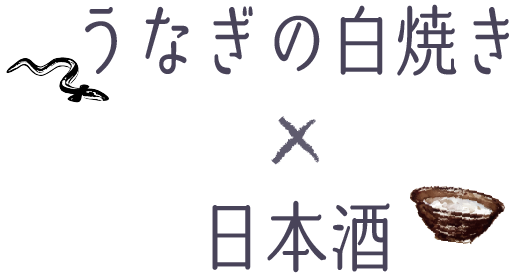
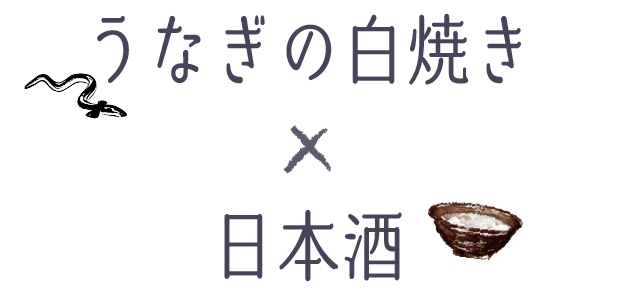
レスポンシブ対応に

diff --git a/sake.css b/sake.css
@@ -123,7 +123,7 @@ section.sake__cranberry {
     display: block;
     justify-content: center;
     margin: auto;
-    width: 360px;
+    width: 400px;
     object-fit: contain; }
   /* line 146, /Users/matsuyasuguru/sake_sue/sake.scss */
   section.sake__cranberry section.sake__cranberry__content {
@@ -248,7 +248,7 @@ section.sake__mirai {
     display: block;
     justify-content: center;
     margin: auto;
-    width: 260px;
+    width: 400px;
     object-fit: contain; }
   /* line 297, /Users/matsuyasuguru/sake_sue/sake.scss */
   section.sake__mirai section.sake__mirai__content {
@@ -308,7 +308,7 @@ section.sake__unagi {
     display: block;
     justify-content: center;
     margin: auto;
-    width: 380px;
+    width: 400px;
     object-fit: contain; }
   /* line 369, /Users/matsuyasuguru/sake_sue/sake.scss */
   section.sake__unagi section.sake__unagi__content {
@@ -333,12 +333,12 @@ section.sake__unagi {
         height: 94px; }
       /* line 392, /Users/matsuyasuguru/sake_sue/sake.scss */
       section.sake__unagi section.sake__unagi__content .sake__unagi__item .text_2 {
-        height: 100px; }
+        height: 108px; }
       /* line 396, /Users/matsuyasuguru/sake_sue/sake.scss */
       section.sake__unagi section.sake__unagi__content .sake__unagi__item .text_3 {
         padding-top: 20px;
         margin-bottom: 80px;
-        height: 48px; }
+        height: 64px; }
   /* line 405, /Users/matsuyasuguru/sake_sue/sake.scss */
   section.sake__unagi .water__1 {
     position: absolute;
@@ -413,27 +413,27 @@ section.sake__unagi {
           height: 70px; }
         /* line 493, /Users/matsuyasuguru/sake_sue/sake.scss */
         section.sake__cranberry section.sake__cranberry__content .sake__cranberry__item .right {
-          float: right; }
-    /* line 499, /Users/matsuyasuguru/sake_sue/sake.scss */
+          float: right;
+          margin-left: 200px; }
+    /* line 500, /Users/matsuyasuguru/sake_sue/sake.scss */
     section.sake__cranberry .water__1 {
       top: 300px;
-      width: 160px; }
-    /* line 506, /Users/matsuyasuguru/sake_sue/sake.scss */
+      width: 220px; }
+    /* line 507, /Users/matsuyasuguru/sake_sue/sake.scss */
     section.sake__cranberry .sake__cranberry__shop img {
       width: 320px; }
-    /* line 510, /Users/matsuyasuguru/sake_sue/sake.scss */
+    /* line 511, /Users/matsuyasuguru/sake_sue/sake.scss */
     section.sake__cranberry .sake__cranberry__shop img.text {
       width: 200px; }
-    /* line 515, /Users/matsuyasuguru/sake_sue/sake.scss */
+    /* line 516, /Users/matsuyasuguru/sake_sue/sake.scss */
     section.sake__cranberry .water__2 {
-      width: 160px; }
-  /* line 520, /Users/matsuyasuguru/sake_sue/sake.scss */
+      width: 220px; }
+  /* line 521, /Users/matsuyasuguru/sake_sue/sake.scss */
   section.sake__cheese {
     margin-top: 80px; }
-    /* line 523, /Users/matsuyasuguru/sake_sue/sake.scss */
+    /* line 524, /Users/matsuyasuguru/sake_sue/sake.scss */
     section.sake__cheese img.title {
-      width: 200px;
-      margin-right: 96px; }
+      width: 200px; }
     /* line 528, /Users/matsuyasuguru/sake_sue/sake.scss */
     section.sake__cheese section.sake__cheese__content {
       display: block;
@@ -463,27 +463,27 @@ section.sake__unagi {
           width: 200px; }
         /* line 559, /Users/matsuyasuguru/sake_sue/sake.scss */
         section.sake__cheese section.sake__cheese__content .sake__cheese__item .right {
-          float: right; }
-    /* line 565, /Users/matsuyasuguru/sake_sue/sake.scss */
+          float: right;
+          margin-left: 200px; }
+    /* line 566, /Users/matsuyasuguru/sake_sue/sake.scss */
     section.sake__cheese .water__1 {
       top: 300px;
       width: 160px; }
-    /* line 572, /Users/matsuyasuguru/sake_sue/sake.scss */
+    /* line 573, /Users/matsuyasuguru/sake_sue/sake.scss */
     section.sake__cheese .sake__cheese__shop img {
       width: 320px; }
-    /* line 576, /Users/matsuyasuguru/sake_sue/sake.scss */
+    /* line 577, /Users/matsuyasuguru/sake_sue/sake.scss */
     section.sake__cheese .sake__cheese__shop img.text {
       width: 120px; }
-    /* line 581, /Users/matsuyasuguru/sake_sue/sake.scss */
+    /* line 582, /Users/matsuyasuguru/sake_sue/sake.scss */
     section.sake__cheese .water__2 {
-      width: 160px; }
-  /* line 586, /Users/matsuyasuguru/sake_sue/sake.scss */
+      width: 220px; }
+  /* line 587, /Users/matsuyasuguru/sake_sue/sake.scss */
   section.sake__mirai {
     margin-top: 80px; }
-    /* line 589, /Users/matsuyasuguru/sake_sue/sake.scss */
+    /* line 590, /Users/matsuyasuguru/sake_sue/sake.scss */
     section.sake__mirai img.title {
-      width: 150px;
-      margin-right: 94px; }
+      width: 200px; }
     /* line 594, /Users/matsuyasuguru/sake_sue/sake.scss */
     section.sake__mirai section.sake__mirai__content {
       display: block;
@@ -513,23 +513,23 @@ section.sake__unagi {
           width: 180px; }
         /* line 625, /Users/matsuyasuguru/sake_sue/sake.scss */
         section.sake__mirai section.sake__mirai__content .sake__mirai__item .right {
-          float: right; }
-    /* line 633, /Users/matsuyasuguru/sake_sue/sake.scss */
+          float: right;
+          margin-left: 200px; }
+    /* line 634, /Users/matsuyasuguru/sake_sue/sake.scss */
     section.sake__mirai .sake__mirai__shop img {
       width: 320px; }
-    /* line 637, /Users/matsuyasuguru/sake_sue/sake.scss */
+    /* line 638, /Users/matsuyasuguru/sake_sue/sake.scss */
     section.sake__mirai .sake__mirai__shop img.text {
       width: 120px; }
-    /* line 642, /Users/matsuyasuguru/sake_sue/sake.scss */
+    /* line 643, /Users/matsuyasuguru/sake_sue/sake.scss */
     section.sake__mirai .water__2 {
-      width: 160px; }
-  /* line 647, /Users/matsuyasuguru/sake_sue/sake.scss */
+      width: 220px; }
+  /* line 648, /Users/matsuyasuguru/sake_sue/sake.scss */
   section.sake__unagi {
     margin-top: 80px; }
-    /* line 650, /Users/matsuyasuguru/sake_sue/sake.scss */
+    /* line 651, /Users/matsuyasuguru/sake_sue/sake.scss */
     section.sake__unagi img.title {
-      width: 200px;
-      margin-right: 102px; }
+      width: 200px; }
     /* line 655, /Users/matsuyasuguru/sake_sue/sake.scss */
     section.sake__unagi section.sake__unagi__content {
       display: block;
@@ -559,15 +559,17 @@ section.sake__unagi {
           width: 180px; }
         /* line 686, /Users/matsuyasuguru/sake_sue/sake.scss */
         section.sake__unagi section.sake__unagi__content .sake__unagi__item .right {
-          float: right; }
-    /* line 694, /Users/matsuyasuguru/sake_sue/sake.scss */
+          float: right;
+          margin-left: 200px; }
+    /* line 695, /Users/matsuyasuguru/sake_sue/sake.scss */
     section.sake__unagi .sake__unagi__shop img {
       width: 320px; }
-    /* line 698, /Users/matsuyasuguru/sake_sue/sake.scss */
+    /* line 699, /Users/matsuyasuguru/sake_sue/sake.scss */
     section.sake__unagi .sake__unagi__shop img.text {
       width: 120px; }
-    /* line 703, /Users/matsuyasuguru/sake_sue/sake.scss */
-    section.sake__unagi .water__2 {
-      width: 160px; } }
+    /* line 704, /Users/matsuyasuguru/sake_sue/sake.scss */
+    section.sake__unagi .water__1 {
+      width: 220px;
+      bottom: 100px; } }
 
 /*# sourceMappingURL=sake.css.map */

diff --git a/sake.scss b/sake.scss
@@ -139,7 +139,7 @@ section.sake__cranberry {
         display: block;
         justify-content: center;
         margin: auto;
-        width: 360px;
+        width: 400px;
         object-fit: contain;
     }
     
@@ -290,7 +290,7 @@ section.sake__mirai {
         display: block;
         justify-content: center;
         margin: auto;
-        width: 260px;
+        width: 400px;
         object-fit: contain;
     }
     
@@ -362,7 +362,7 @@ section.sake__unagi {
         display: block;
         justify-content: center;
         margin: auto;
-        width: 380px;
+        width: 400px;
         object-fit: contain;
     }
     
@@ -390,13 +390,13 @@ section.sake__unagi {
             }
             
             .text_2 {
-                height: 100px;
+                height: 108px;
             }
             
             .text_3 {
                 padding-top: 20px;
                 margin-bottom: 80px;
-                height: 48px;
+                height: 64px;
             }
         }
         
@@ -492,13 +492,14 @@ section.sake__unagi {
                 
                 .right {
                     float: right;
+                    margin-left: 200px;
                 }
             }
         }
         
         .water__1 {
             top: 300px;
-            width: 160px;
+            width: 220px;
         }
         
         .sake__cranberry__shop  {
@@ -513,7 +514,7 @@ section.sake__unagi {
         }
         
         .water__2 {
-            width: 160px;
+            width: 220px;
         }
     }
     
@@ -522,7 +523,6 @@ section.sake__unagi {
         
         img.title {
             width: 200px;
-            margin-right: 96px;
         }
         
         section.sake__cheese__content {
@@ -558,6 +558,7 @@ section.sake__unagi {
                 
                 .right {
                     float: right;
+                    margin-left: 200px;
                 }
             }
         }
@@ -579,7 +580,7 @@ section.sake__unagi {
         }
         
         .water__2 {
-            width: 160px;
+            width: 220px;
         }
     }
     
@@ -587,8 +588,7 @@ section.sake__unagi {
         margin-top: 80px;
         
         img.title {
-            width: 150px;
-            margin-right: 94px;
+            width: 200px;
         }
         
         section.sake__mirai__content {
@@ -624,6 +624,7 @@ section.sake__unagi {
                 
                 .right {
                     float: right;
+                    margin-left: 200px;
                 }
             }
         }
@@ -640,7 +641,7 @@ section.sake__unagi {
         }
         
         .water__2 {
-            width: 160px;
+            width: 220px;
         }
     }
     
@@ -649,7 +650,6 @@ section.sake__unagi {
         
         img.title {
             width: 200px;
-            margin-right: 102px;
         }
         
         section.sake__unagi__content {
@@ -685,6 +685,7 @@ section.sake__unagi {
                 
                 .right {
                     float: right;
+                    margin-left: 200px;
                 }
             }
         }
@@ -700,8 +701,9 @@ section.sake__unagi {
             }
         }
         
-        .water__2 {
-            width: 160px;
+        .water__1 {
+            width: 220px;
+            bottom: 100px;
         }
     }
     

diff --git a/index.html b/index.html
@@ -12,23 +12,23 @@
     <body>
         <header>
             <div class="top">
-                <video id="bg-video" src="nihonsyuya.mp4" poster="images/sakeya.jpg" loop autoplay muted></video>
+                <video id="bg-video" src="nihonsyuya.mp4" poster="images/nihonsyu_girl.jpg" loop autoplay muted></video>
                 <img src="images/catch.png" class="catch fuwat">
             </div>
             <div class="banner">
                 <nav>
                     <ul>
-                        <li><a href=""><img src="images/banner_1.png"></a></li>
-                        <li><a href=""><img src="images/banner_2.png"></a></li>
-                        <li><a href=""><img src="images/banner_3.png" class="ai"></a></li>
-                        <li><a href=""><img src="images/banner_4.png"></a></li>
+                        <li><a href="#cranberry"><img src="images/banner_1.png"></a></li>
+                        <li><a href="#cheese"><img src="images/banner_2.png"></a></li>
+                        <li><a href="#mirai"><img src="images/banner_3.png" class="ai"></a></li>
+                        <li><a href="#unagi"><img src="images/banner_4.png"></a></li>
                     </ul>
                 </nav>
             </div>
         </header>
         <main>
-            <section class="sake__cranberry">
-                <img src="images/sake_title_1.png" class="title fuwat">
+            <section class="sake__cranberry" id="cranberry">
+                <img src="images/title_1.png" class="title fuwat">
                 <section class="sake__cranberry__content">
                     <div class="sake__cranberry__item fuwat">
                         <img src="images/platstand_1.png">
@@ -51,8 +51,8 @@
                 <img src="images/water_2.png" class="water__2">
             </section>
             
-            <section class="sake__cheese">
-                <img src="images/sake_title_2.png" class="fuwat title">
+            <section class="sake__cheese" id="cheese">
+                <img src="images/title_2.png" class="fuwat title">
                 <section class="sake__cheese__content">
                     <div class="sake__cheese__item fuwat">
                         <img src="images/nihonsyuya_1.png" class="right">
@@ -74,7 +74,7 @@
                 <img src="images/water_3.png" class="water__2">
             </section>
             
-            <section class="sake__mirai">
+            <section class="sake__mirai" id="mirai">
                 <img src="images/title_3.png" class="fuwat title">
                 <section class="sake__mirai__content">
                     <div class="sake__mirai__item fuwat">
@@ -97,7 +97,7 @@
                 <img src="images/water_4.png" class="water__2">
             </section>
             
-            <section class="sake__unagi">
+            <section class="sake__unagi" id="unagi">
                 <img src="images/title_4.png" class="fuwat title">
                 <section class="sake__unagi__content">
                     <div class="sake__unagi__item fuwat">
